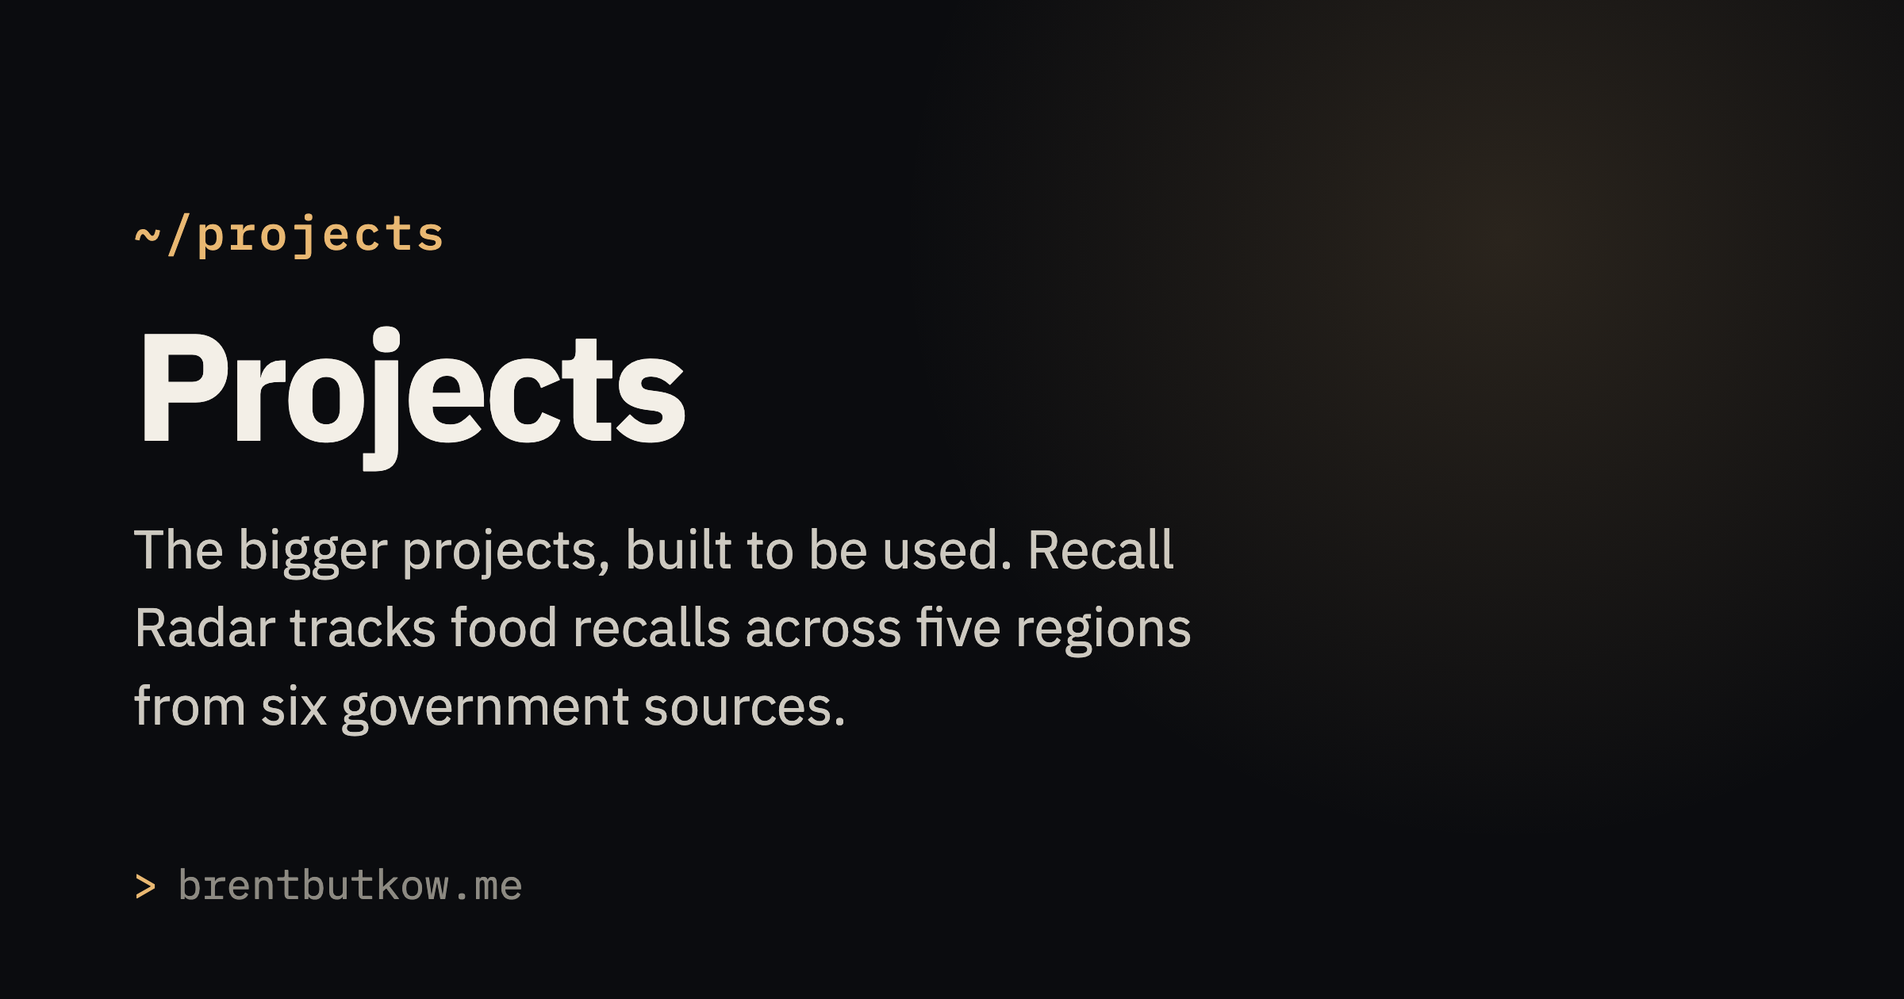
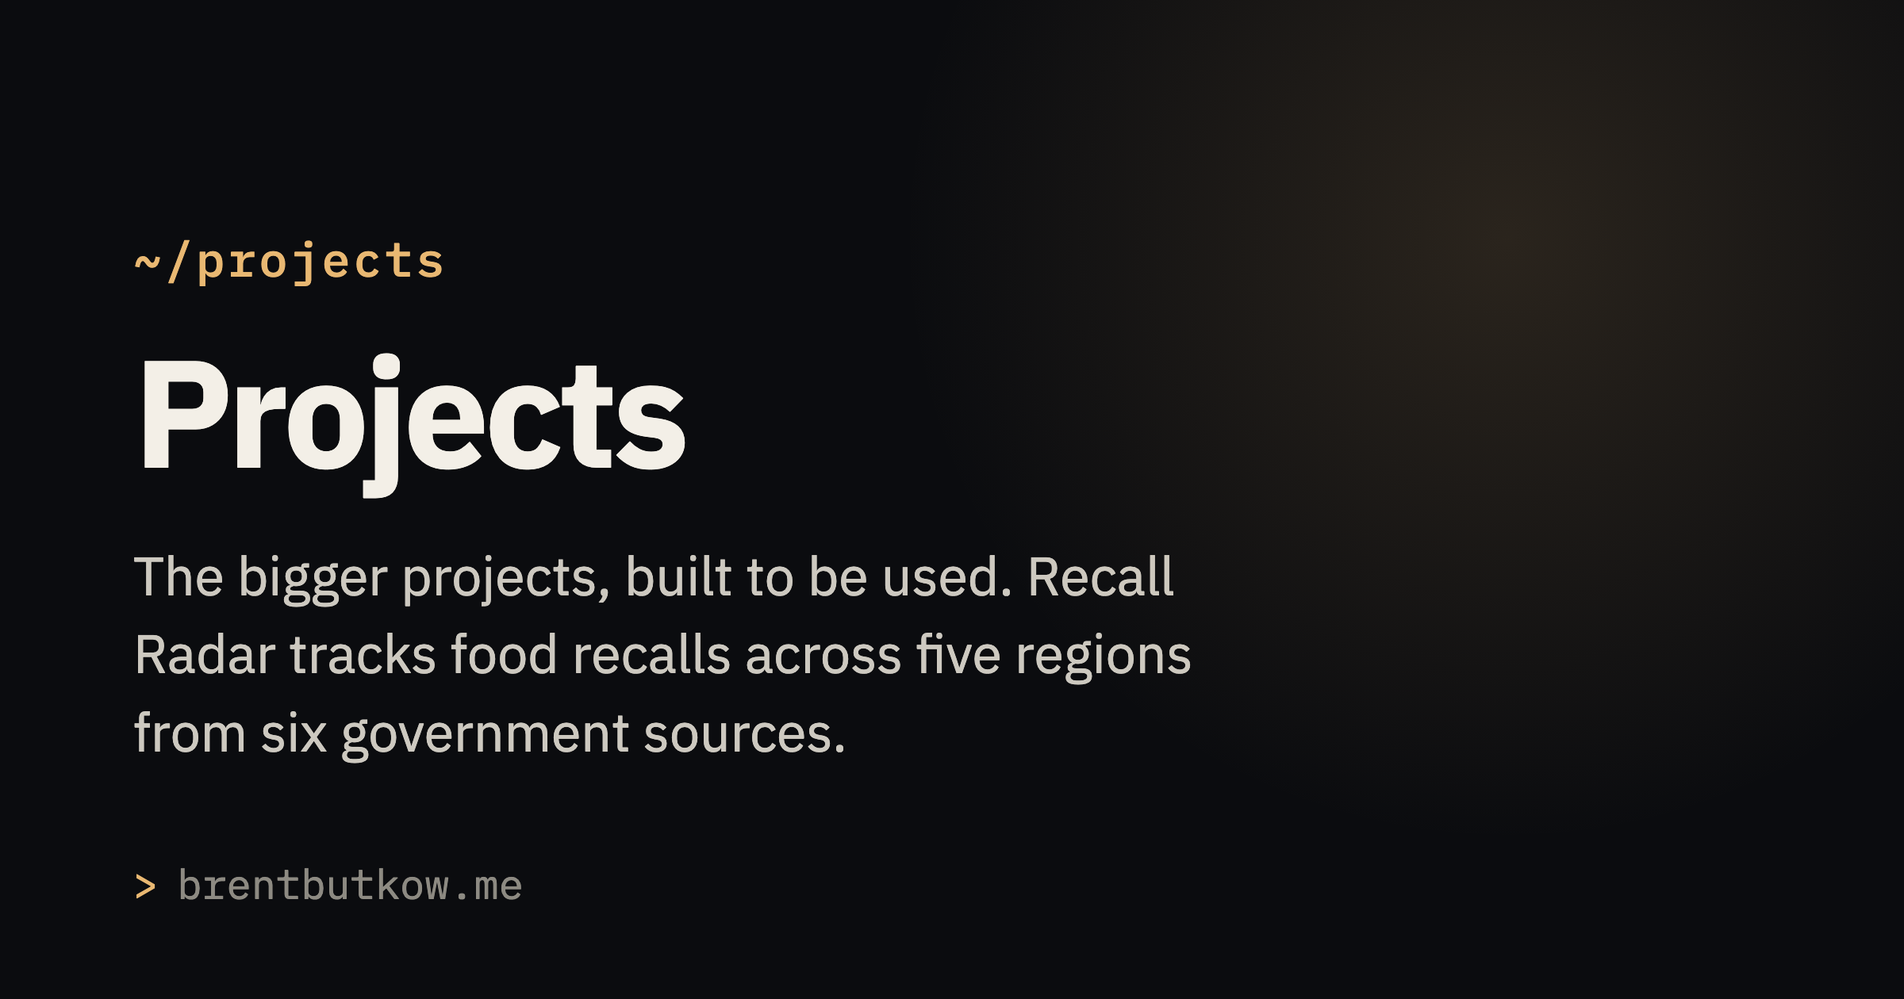
refactor: enhance Open Graph card generation and improve error handling
- Updated SKILL.md to clarify the Open Graph card fields and their usage.
- Modified generate-og.mjs to implement a draft system for rendering cards, ensuring that failed renders do not overwrite existing images.
- Improved error reporting for failed card renders, listing all failures after processing.
- Adjusted og-template.html to handle empty tags more gracefully and refined layout properties.
- Enhanced LabelledRow.module.scss comments for better clarity on row classifications.
- Updated FunItem type in data.types.ts for clearer labeling descriptions.
- Refactored FunCard.test.tsx to utilize pluralization for game counts.
- Improved CourseProjects component to ensure unique keys for rendered FunCards.
- Corrected grade labels in CourseProjects data from "Grd" to "Grade".
- Enhanced ProjectsPage.test.tsx to ensure robust link matching for project names.
- Updated MaliciousUx data files to incorporate pluralization for better readability.
- Refined EagerAd component tests to cover edge cases for touch interactions.
- Improved PatientReject component logic to handle rejection states more effectively.
- Enhanced UnsubscribeSlog component styles and tests for better alignment with copy changes.
- Updated TicTacToe components to ensure touch interactions are handled correctly without interfering with scrolling.
- Added site invariant tests to ensure all Open Graph cards are accounted for and correctly linked to routes.

Changed region(s): [[0.0625, 0.5262, 0.625, 0.7738], [0.0625, 0.3095, 0.375, 0.4952], [0.0625, 0.2167, 0.25, 0.2786]]

diff --git a/scripts/og/og-template.html b/scripts/og/og-template.html
@@ -1,8 +1,8 @@
 <!doctype html>
 <!-- 1200x630 Open Graph card template. Rendered to PNG by scripts/generate-og.mjs via headless
-     Chrome; pick a variant with ?v=home|recall-radar|null-space|pixel-world-simulator|malicious-ux|othello|tic-tac-toe.
-     Mirrors the site's design
-     tokens (ink bg, warm gold accent, IBM Plex) and the terminal ~/ path motif. -->
+     Chrome; pick a card with ?v=<key>, where the keys are those of the `variants` object below.
+     Mirrors the site's design tokens (ink bg, warm gold accent, IBM Plex) and the terminal ~/ path
+     motif. -->
 <html lang="en">
   <head>
     <meta charset="UTF-8" />
@@ -83,6 +83,10 @@
         display: flex;
         gap: 14px;
         margin-top: 34px;
+      }
+      /* `display: flex` outranks the `hidden` attribute, so an empty row keeps its margin without this. */
+      .tags[hidden] {
+        display: none;
       }
       .tag {
         font-family: 'IBM Plex Mono', monospace;
@@ -235,8 +239,9 @@
       .ascii {
         position: absolute;
         top: 0;
-        left: 40px;
-        right: -40px;
+        /* The grid is measured to land inside the card: 22 columns at 21px plus 3px of tracking. */
+        left: 20px;
+        right: 0;
         bottom: 0;
         display: flex;
         flex-direction: column;
@@ -506,8 +511,7 @@
         contact: {
           path: '~/contact',
           title: 'Contact',
-          subtitle:
-            'Contact me via Email, GitHub and LinkedIn - for work, for fun, or just to say hi.',
+          subtitle: 'Reach me by email, GitHub or LinkedIn — for work, for fun, or just to say hi.',
           tags: [],
         },
         'ascii-art': {
@@ -590,11 +594,14 @@
       } else {
         subtitleEl.textContent = variant.subtitle
       }
+      // A card with no tags drops the row entirely, so its text block sits where a tagged card's does.
+      const tagsEl = document.getElementById('tags')
+      if (variant.tags.length === 0) tagsEl.hidden = true
       for (const label of variant.tags) {
         const tag = document.createElement('span')
         tag.className = 'tag'
         tag.textContent = label
-        document.getElementById('tags').appendChild(tag)
+        tagsEl.appendChild(tag)
       }
       if (variant.strata) {
         // The material colours come from the sim's own table (engine/materials.ts). Copied rather than
@@ -751,7 +758,7 @@
           let seed = 8675309
           const rand = () => (seed = (seed * 16807) % 2147483647) / 2147483647
           const RAMP = ' .:-=+*#%@'
-          const COLUMNS = 26
+          const COLUMNS = 22
           const ROWS = 22
           // A soft shape in the middle of the frame: brightness falls off with distance from its centre,
           // so the ramp resolves into a form near the middle and dissolves into speckle at the edges.
@@ -773,8 +780,8 @@
           const grid = add('pixels', {})
           let seed = 20250807
           const rand = () => (seed = (seed * 16807) % 2147483647) / 2147483647
-          // A picture worth hiding something in, then the same three squares again under the loupe with
-          // the low bits that carry the message called out.
+          // A picture worth hiding something in, then a magnified read-out beside it — its own cells, not
+          // the grid's — showing the low bits that carry the message.
           const shade = () => {
             const base = 40 + Math.round(rand() * 60)
             return `rgb(${base + 30} ${base + 70} ${base + 110})`

diff --git a/src/projects/Othello/components/Board/Board.module.scss b/src/projects/Othello/components/Board/Board.module.scss
@@ -59,16 +59,12 @@ $disc-light: #e9e3d6; // warm off-white disc
     inset 0 0 0 1px rgba(0, 0, 0, 0.28),
     inset 0 1px 1px rgba(0, 0, 0, 0.22);
   /**
-   * Deliberately no `perspective` here.
+   * No `perspective` here. A standing 3D context per cell means sixty-four render surfaces nested
+   * inside the board's already perspective-projected one, and any repaint that touches them — a
+   * legal-move ring growing under the cursor is enough — cracks hairlines across the discs.
    *
-   * A turning disc does need a 3D camera of its own, independent of the board's tilt — otherwise the
-   * tilt bleeds into the flip and both faces show through at once — but it needs it for the second the
-   * turn lasts, and it now carries one in its own transform (see `.disc[data-flipping]`). Left on the
-   * cell it stood permanently: sixty-four nested 3D rendering contexts inside the board's already
-   * perspective-projected surface. Each one is a separate render surface to the compositor, and any
-   * repaint that touched them — a legal-move ring growing under the cursor was enough — left hairline
-   * cracks lying across the discs, in the colour of whatever was behind them, until the next scroll
-   * re-rasterised the board. At rest the discs are now flat painted circles with nothing to crack.
+   * The camera a turning disc needs rides in `.disc[data-flipping]`'s own transform instead, for the
+   * second the turn lasts. At rest the discs are flat painted circles with nothing to crack.
    */
   cursor: default;
 
@@ -138,9 +134,10 @@ $disc-light: #e9e3d6; // warm off-white disc
  *
  * It is drawn in the colour to move rather than the site accent: the rings are the one thing on the
  * board you are already looking at, so tinting them is what tells you whose turn it is — and, playing
- * the computer, which colour you are. Falls back to the accent if no colour is named.
+ * the computer, which colour you are.
  */
 .hint {
+  /* The base the two colour rules below override, and what the pulse reads while neither has landed. */
   --hint-rgb: var(--accent-rgb);
 
   position: absolute;
@@ -149,9 +146,9 @@ $disc-light: #e9e3d6; // warm off-white disc
   border: 2px solid rgba(var(--hint-rgb), 0.8);
   background: rgba(var(--hint-rgb), 0.16);
   z-index: 1;
-  /* The ring grows by widening, not by `transform: scale()`. A transform transition here was the thing
-     that set the compositor cracks off — see the note on `.cell` — and this is one small absolutely
-     positioned circle, so there is nothing below it for a change of size to disturb. */
+  /* The ring grows by widening, not by `transform: scale()`: a transform transition here is what sets
+     the compositor cracks off — see the note on `.cell`. This is one small absolutely positioned
+     circle, so there is nothing below it for a change of size to disturb. */
   transition:
     background 140ms ease,
     inset 140ms $ease-shoot;

diff --git a/src/projects/MaliciousUx/exhibits/EagerAd/EagerAd.tsx b/src/projects/MaliciousUx/exhibits/EagerAd/EagerAd.tsx
@@ -1,5 +1,6 @@
 import { PointerEvent, useEffect, useRef, useState } from 'react'
 import { useMediaQuery } from '../../../../components/utils/useMediaQuery'
+import { usePointerIntent } from '../../usePointerIntent'
 import styles from './EagerAd.module.scss'
 import { copy } from './data'
 
@@ -19,6 +20,7 @@ type Landed = (typeof Landed)[keyof typeof Landed]
 
 export function EagerAd() {
   const isTouch = useMediaQuery(TOUCH_QUERY)
+  const { viaPointer, intentProps } = usePointerIntent()
   const [adShown, setAdShown] = useState(false)
   const [landed, setLanded] = useState<Landed | null>(null)
   const actionRef = useRef<HTMLButtonElement>(null)
@@ -30,6 +32,8 @@ export function EagerAd() {
 
   // The advert loads once the cursor nears the button, and lands above it so the layout shifts under it.
   const onPointerNear = (event: PointerEvent) => {
+    // A finger dragging past counts as no approach: letting it arm the advert spends the touch trick early.
+    if (isTouchPress(event.pointerType)) return
     if (adShown || arrival.current !== undefined || actionRef.current === null) return
     const rect = actionRef.current.getBoundingClientRect()
     const dx = Math.max(rect.left - event.clientX, 0, event.clientX - rect.right)
@@ -45,18 +49,23 @@ export function EagerAd() {
    * Left to the cursor code alone the exhibit simply did nothing on a phone.
    */
   const onActionPress = (event: PointerEvent) => {
+    intentProps.onPointerDown()
     /* A press owns the tap only if the advert lands during that press. Clearing first means a press
        abandoned by dragging off the button cannot leave the flag set and steal a later click. */
     tapTaken.current = false
     if (!isTouchPress(event.pointerType) || adShown || landed !== null) return
     window.clearTimeout(arrival.current)
     arrival.current = undefined
+    /* The advert lands above the button and pushes it down under the finger. Capturing the pointer
+       keeps the release on the button, so the tap still counts instead of falling into the advert. */
+    event.currentTarget.setPointerCapture?.(event.pointerId)
     setAdShown(true)
     tapTaken.current = true
   }
 
   const onActionRelease = () => {
-    if (!tapTaken.current) {
+    // Reached by Tab there was no press to steal, so the button does what its label says.
+    if (!viaPointer.current || !tapTaken.current) {
       setLanded(Landed.article)
       return
     }
@@ -95,6 +104,7 @@ export function EagerAd() {
         ref={actionRef}
         className={styles.action}
         onPointerDown={onActionPress}
+        onKeyDown={intentProps.onKeyDown}
         onClick={onActionRelease}
       >
         {copy.action}

diff --git a/src/projects/TicTacToe/TicTacToe.tsx b/src/projects/TicTacToe/TicTacToe.tsx
@@ -323,21 +323,20 @@ export function TicTacToe({ computerSeed }: TicTacToeProps = {}) {
   /**
    * Holds the page still while the cube is being turned with a finger.
    *
-   * `touch-action: none` on the stage says as much declaratively, and on its own it was not enough: the
-   * same drag rotated the board some of the time and scrolled the page the rest. Two reasons, both of
-   * which this covers. React registers `touchmove` passively, so nothing handed to the JSX can refuse a
-   * pan; and a touch that lands while the page is still gliding from an earlier flick is treated as a
-   * continuation of that scroll rather than a fresh gesture. A native non-passive listener on the stage
-   * refuses the pan outright, whichever of the two started it.
+   * `touch-action: none` on the stage says as much declaratively, and it needs enforcing twice over:
+   * React registers `touchmove` passively, so nothing handed to the JSX can refuse a pan, and a touch
+   * landing while the page still glides from an earlier flick counts as a continuation of that scroll
+   * rather than a fresh gesture. A native non-passive listener refuses the pan in both cases.
    *
-   * Only while the view is orbitable. The fanned deck takes no drags, so swallowing touch there would
-   * leave the settings below the board out of reach on a phone.
+   * Only while the view is orbitable, and never over the layer rail — the fanned deck and the rail take
+   * no drags, so swallowing touch there would leave the settings below the board out of reach on a phone.
    */
   const { orbitable } = camera
   useEffect(() => {
     const node = stageRef.current
     if (node === null || !orbitable) return
     const holdPage = (event: TouchEvent) => {
+      if (event.target instanceof Element && event.target.closest('[data-rail]') !== null) return
       if (event.cancelable) event.preventDefault()
     }
     node.addEventListener('touchmove', holdPage, { passive: false })

diff --git a/src/projects/MaliciousUx/exhibits/EagerAd/EagerAd.test.tsx b/src/projects/MaliciousUx/exhibits/EagerAd/EagerAd.test.tsx
@@ -73,15 +73,44 @@ describe('EagerAd', () => {
 
   it('drops the claim when the finger slides off instead of releasing', () => {
     render(<EagerAd />)
-    // The advert arrives, then the press is abandoned: no click, so nothing lands.
-    fireEvent.pointerDown(action(), { pointerType: 'touch' })
-    fireEvent.click(screen.getByRole('button', { name: copy.reset }))
 
+    // The advert arrives on the first press, which is then abandoned: no click, so nothing lands.
     fireEvent.pointerDown(action(), { pointerType: 'touch' })
     fireEvent.pointerDown(action(), { pointerType: 'touch' })
     fireEvent.click(action())
 
     expect(screen.getByText(copy.article)).toBeTruthy()
+  })
+
+  /**
+   * Regression: an abandoned touch press left the claim on the advert, and the next Enter cashed it in —
+   * breaking the museum's one promise, that a control reached by Tab does what its label says.
+   */
+  it('gives Enter the article even when a touch press was abandoned mid-tap', () => {
+    render(<EagerAd />)
+
+    fireEvent.pointerDown(action(), { pointerType: 'touch' })
+    expect(screen.getByText(copy.ad)).toBeTruthy()
+
+    fireEvent.keyDown(action(), { key: 'Enter' })
+    fireEvent.click(action())
+
+    expect(screen.getByText(copy.article)).toBeTruthy()
+  })
+
+  it('spells out the tap on a touch screen, where there is no cursor to watch', () => {
+    const matchMedia = vi.fn((query: string) => ({
+      matches: query === '(hover: none)',
+      media: query,
+      addEventListener: vi.fn(),
+      removeEventListener: vi.fn(),
+    }))
+    vi.stubGlobal('matchMedia', matchMedia)
+
+    render(<EagerAd />)
+    expect(screen.getByText(copy.quietTouch)).toBeTruthy()
+
+    vi.unstubAllGlobals()
   })
 
   it('leaves a mouse press to the cursor path, which steals no clicks', () => {

diff --git a/src/site-invariants.test.ts b/src/site-invariants.test.ts
@@ -114,6 +114,22 @@ describe('site invariants', () => {
     ).toEqual([])
   })
 
+  it('every social card committed to public/og is one a route still asks for', () => {
+    // The inverse of the check above. A renamed or deleted route leaves its card behind, and a half-MB
+    // PNG nothing references is invisible to every other check in this file.
+    const generator = readFileSync(join(rootDir, 'scripts/generate-og.mjs'), 'utf8')
+    const drawn = new Set(
+      [...generator.matchAll(/out:\s*'public(\/[\w\-/.]+\.png)'/g)].map((match) => match[1])
+    )
+    const orphaned = readdirSync(join(publicDir, 'og'))
+      .map((file) => `/og/${file}`)
+      .filter((image) => !drawn.has(image))
+    expect(
+      orphaned,
+      `cards in public/og that no card in generate-og.mjs writes:\n${orphaned.join('\n')}`
+    ).toEqual([])
+  })
+
   it('every card the generator renders maps to a variant the template defines', () => {
     // generate-og.mjs passes ?v=<variant> to the template; a variant the template has no entry for
     // used to fall back to the home card, silently overwriting a project PNG with the wrong image.

diff --git a/src/projects/MaliciousUx/exhibits/PatientReject/PatientReject.tsx b/src/projects/MaliciousUx/exhibits/PatientReject/PatientReject.tsx
@@ -42,10 +42,10 @@ export function PatientReject() {
       setOutcome(Outcome.rejected)
       return
     }
-    /* Changing your mind after accepting starts the wait from the top — the delay is on rejecting,
-       whenever the rejecting happens. Without clearing the outcome the ring and the countdown both
-       stayed frozen behind the "accepted" line, so pressing Reject appeared to do nothing at all. */
-    if (phase === Phase.idle || outcome !== null) {
+    /* Changing your mind after accepting starts the wait from the top, and clears the "accepted" line
+       with it — otherwise the ring and the countdown sit frozen behind it and Reject looks dead rather
+       than slow. A rejection already made is left alone: it is a decision, not a wait to restart. */
+    if (phase === Phase.idle || outcome === Outcome.accepted) {
       setOutcome(null)
       setMsLeft(rejectDelayMs)
       setStartDelay(rejectDelayMs)

diff --git a/src/projects/PixelWorldSimulator/components/SimControls/SimControls.tsx b/src/projects/PixelWorldSimulator/components/SimControls/SimControls.tsx
@@ -1,6 +1,7 @@
 import { Preset } from '../../engine/presets'
 import { ShareOutcome } from '../../useShareLink'
 import { BRUSH_RADIUS, PRESETS, SIM_SPEEDS, simCopy } from '../../data'
+import { pluralize } from '../../../../utils/pluralize'
 import { Select } from '../../../../components/inputs/Select'
 import type { SelectOption } from '../../../../components/inputs/option.types'
 import styles from './SimControls.module.scss'
@@ -127,9 +128,7 @@ export function SimControls({
           value={radius}
           onChange={(event) => onRadius(Number(event.target.value))}
         />
-        <span className={styles.readout}>
-          {brushCells} {brushCells === 1 ? 'cell' : 'cells'}
-        </span>
+        <span className={styles.readout}>{pluralize(brushCells, 'cell', 'cells')}</span>
       </label>
 
       {/* Off on its own at the far end: it throws the world away, and against the transport a miss while

diff --git a/src/pages/FunStuff/components/FunCard.test.tsx b/src/pages/FunStuff/components/FunCard.test.tsx
@@ -5,6 +5,7 @@ import { FunItem } from '../../../data/data.types'
 import { FunCard } from './FunCard'
 import { funStuff } from '../data'
 import { games } from '../subpages/Games/data'
+import { pluralize } from '../../../utils/pluralize'
 
 afterEach(cleanup)
 
@@ -52,10 +53,11 @@ describe('FunCard', () => {
 
   it('counts the games the Games row actually leads to', () => {
     // Reads the shipped copy against the shipped list, so adding a game has to move the count with it.
+    const count = pluralize(games.length, 'game', 'games')
     const gamesRow = funStuff.find((item) => item.title === 'Games')
-    expect(gamesRow?.hub).toBe(`${games.length} games`)
+    expect(gamesRow?.hub).toBe(count)
 
     renderCard(gamesRow as FunItem)
-    expect(screen.getByRole('link').textContent).toContain(`${games.length} games`)
+    expect(screen.getByRole('link').textContent).toContain(count)
   })
 })

diff --git a/src/projects/MaliciousUx/exhibits/UnsubscribeSlog/data.ts b/src/projects/MaliciousUx/exhibits/UnsubscribeSlog/data.ts
@@ -38,8 +38,11 @@ export const copy = {
  * The longest line the readout can ever show, for the invisible copy that holds its box at full size.
  *
  * The lines differ enough in length that the long "processing" one wrapped on a phone, which pushed the
- * resubscribe button onto its own row and jumped the whole page on every unsubscribe. Derived from the
- * copy rather than named outright, so editing a line cannot leave the reservation behind.
+ * resubscribe button onto its own row and jumped the whole page on every unsubscribe.
+ *
+ * It reads the copy rather than naming a line, so rewording one is safe; the candidates are listed by
+ * hand, so a *new* readout line has to be added here too. A test counts the copy keys to say so.
+ * Length here is a stand-in for width, which is fair while the lines are all ordinary prose.
  */
 export const longestStatus = (): string =>
   [

diff --git a/src/projects/MaliciousUx/exhibits/PatientReject/PatientReject.test.tsx b/src/projects/MaliciousUx/exhibits/PatientReject/PatientReject.test.tsx
@@ -71,6 +71,26 @@ describe('PatientReject', () => {
     expect(screen.getByText(copy.rejected(3))).toBeTruthy()
   })
 
+  /**
+   * Regression: restarting the wait for any outcome, not just an acceptance, meant a rejection already
+   * granted by the keyboard was taken back by the next mouse press and replaced with a fresh countdown.
+   */
+  it('leaves a rejection alone once it has been granted', () => {
+    show()
+
+    pressWithPointer(reject())
+    fireEvent.keyDown(reject())
+    fireEvent.click(reject())
+    expect(screen.getByText(copy.rejected(2))).toBeTruthy()
+
+    pressWithPointer(reject())
+
+    expect(screen.getByText(copy.rejected(3))).toBeTruthy()
+    expect(
+      screen.queryByText(copy.preparing((HOSTILITY.rejectDelayMs / 1000).toFixed(1)))
+    ).toBeNull()
+  })
+
   it('stops the countdown once a decision is made', () => {
     show()
 

diff --git a/src/pages/FunStuff/subpages/CourseProjects/data.ts b/src/pages/FunStuff/subpages/CourseProjects/data.ts
@@ -18,14 +18,14 @@ export const courseProjects: FunItem[] = [
   },
   {
     title: 'Chess PAT',
-    label: 'Grd 11',
+    label: 'Grade 11',
     description:
       'For my grade 11 PAT (Practical Assessment Task), I created a chess game in Java with an AI opponent that you could play against. The project included a GUI and a simple minimax algorithm for the AI',
     link: 'https://github.com/BrentTB/chess_PAT',
   },
   {
     title: 'Space Math',
-    label: 'Grd 11',
+    label: 'Grade 11',
     description:
       'For a grade 11 project, I created a space-themed math game in Java. The user had to quickly solve math problems, or they would lose health. The user could unlock different skins, backgrounds, and effects, and there was a built in (local) leaderboard',
     link: 'https://github.com/BrentTB/space_math',
